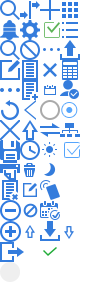
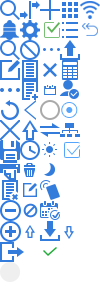
部门设定.html  home.html css img

Changed region(s): [[0.81, 0.0, 1.0, 0.12]]

diff --git a/部门设定.html b/部门设定.html
@@ -39,8 +39,9 @@
             <li><a href="#">首 页</a> &gt;</li>
             <li><span>部门设定</span></li>
         </ul>
-        <a href="#" class="floatright current"><i class="icon icon-set"></i></a>
-        <a href="#" class="floatright"><i class="icon icon-plus"></i></a>
+        <a href="#" class="iconBtn floatright current"><i class="icon icon-set"></i></a>
+        <a href="#" class="iconBtn floatright"><i class="icon icon-plus"></i></a>
+        <a href="#" class="iconBtn floatright"><i class="icon icon-update" title="同步"></i></a>
         <ul class="dropdown-menu width-110" style="display: none">
             <li><a href="#">部门设置</a></li>
             <li><a href="#">职位设置</a></li>
@@ -99,6 +100,25 @@
                 </li>
             </ul>
         </div>
+        <div class="container bg-white color-a mart10">
+            <div class="title alignright clearfix">
+                <span class="floatleft">以下部门不归我管</span>
+            </div>
+            <ul class="Department clearfix p-top10 p-bt20">
+                <li class="clearfix">
+                    <span class="txt_hidden">人力资源及社会保障局</span>
+                    <a href="#" class="iconBtn floatright" title="撤销"><i class="icon icon-revert"></i></a>
+                </li>
+                <li class="clearfix">
+                    <span class="txt_hidden">人力资源及社会保障局</span>
+                    <a href="#" class="iconBtn floatright" title="撤销"><i class="icon icon-revert"></i></a>
+                </li>
+                <li class="clearfix">
+                    <span class="txt_hidden">人力资源及社会保障局</span>
+                    <a href="#" class="iconBtn floatright" title="撤销"><i class="icon icon-revert"></i></a>
+                </li>
+            </ul>
+        </div>
     </div>
     <!--通知框begin-->
     <div class="container noticeBox bg-white" style="">
@@ -110,7 +130,32 @@
     </div>
     <!--通知框over-->
 </div>
-<!--<div class="mask" style="display:;"></div>-->
+<!--部门编辑弹出begin-->
+<div class="pop" style="display:block;height:200px;">
+    <div class="title alignright">
+        <span class="floatleft">部门编辑</span>
+        <a href="#" class="iconBtn marr10" title=""><i class="icon icon-off-mini"></i></a>
+    </div>
+    <div class="font14 popInner jscroll">
+        <table class="popMain mart10">
+            <tr>
+                <th>部门名称</th>
+                <td>
+                    <div class="has-general">
+                        <input type="text">
+                        <label class="control-label">请输入公式名称</label>
+                    </div>
+                </td>
+            </tr>
+        </table>
+        <p class="mart30 aligncenter">
+            <a href="#" class="btn btn-no marr20">取&nbsp;&nbsp;&nbsp;消</a>
+            <a href="#" class="btn btn-yes marl20">确&nbsp;&nbsp;&nbsp;定</a>
+        </p>
+    </div>
+</div>
+<!--部门编辑弹出over-->
+<div class="mask" style="display:;"></div>
 <script type="text/javascript" src="js/jquery.js"></script>
 <script type="text/javascript" src="js/jquery.jscrollpane.min.js"></script>
 <script type="text/javascript" src="js/jquery.mousewheel.js"></script>

diff --git a/home.html b/home.html
@@ -24,6 +24,7 @@
             <em>你好，习大大！</em>
         </span>
         <ul class="navItem floatright clearfix">
+            <li><a href="#"><i class="icon icon-net"></i></a></li>
             <li><a href="#"><i class="icon icon-search"></i></a></li>
             <li><a href="#"><i class="icon icon-team"></i></a></li>
             <li><a href="#" class="notice"><i class="icon icon-remind"></i><em class="prompt">5</em></a></li>
@@ -364,18 +365,44 @@
     </ul>
 </div>
 <!--通知框over-->
-<span class="loading aligncenter" style="display:;">
+<span class="loading aligncenter" style="display:none;">
     <img src="img/loading.gif"/><br>
     正在加载,请稍后再试...
 </span>
 <!--通知状态条begin-->
-<div class="message_box" style="display:;">
+<div class="message_box" style="display:none;">
     <div class="message aligncenter" style="display:;"><p class="font12 color-white ie-css3">通讯录刷新成功！</p></div><!--每次 fadeout 掉一个div-->
     <div class="message aligncenter message_waring" style="display:none;"><p class="font12 color-white ie-css3">请谨慎操作！</p></div><!--每次 fadeout 掉一个div-->
     <div class="message aligncenter message_error" style="display: none;"><p class="font12 color-white">操作失败！请您尝试重新操作！</p></div>
 </div>
 <!--通知状态条over-->
-<div class="mask" style="display:none;"></div>
+<!--选择分公司begin-->
+<div class="pop choose_net" style="display: block;">
+    <div class="title alignright">
+        <span class="floatleft">请选择分公司或地区</span>
+        <a href="#" class="iconBtn marr10" title=""><i class="icon icon-off-mini"></i></a>
+    </div>
+    <div class="jscroll mart10" style="height:80%;">
+        <ul>
+            <li><a href="">上海万企明道软件有限公司</a></li>
+            <li><a href="">mingdao plus</a></li>
+            <li><a href="">中共中央党校</a></li>
+            <li class="current" title="加current，分公司展开">
+                <a href="javascript:;">大连万科实业集团<em class="arrow"></em></a>
+                <dl style="display: ">
+                    <dd><a href="">北京分公司</a></dd>
+                    <dd><a href="">上海分公司</a></dd>
+                </dl>
+            </li>
+            <li><a href="">上海万企明道软件有限公司</a></li>
+            <li><a href="">北京联合通讯有限责任公司</a></li>
+            <li><a href="">北京联合通讯有限责任公司</a></li>
+            <li><a href="">北京联合通讯有限责33333任公司</a></li>
+        </ul>
+    </div>
+</div>
+<!--选择分公司over-->
+<div class="mask" style="display:block;"></div>
 <script type="text/javascript" src="js/jquery.js"></script>
 <script type="text/javascript" src="js/jquery.jscrollpane.min.js"></script>
 <script type="text/javascript" src="js/jquery.mousewheel.js"></script>

diff --git a/管理层设定-编辑.html b/管理层设定-编辑.html
@@ -166,25 +166,6 @@
                             <div class="treeMain marl40">
                                 <div class="userDiv">
                                     <em class="leftLine"></em>
-                                    <div class="title">
-                                        <div class="has-general intBox nomar">
-                                            <label class="control-label">请填写姓名</label>
-                                            <em class="arrow"></em>
-                                            <p class="marl5">按部门查找</p>
-                                            <div class="dropdown-menu jscroll" style="height:150px;">
-                                                <ul class="">
-                                                    <li><a href="#">按部门查找</a></li>
-                                                    <li><a href="#">按部门查找</a></li>
-                                                    <li><a href="#">按部门查找</a></li>
-                                                    <li><a href="#">按部门查找</a></li>
-                                                    <li><a href="#">按部门查找</a></li>
-                                                    <li><a href="#">按部门查找</a></li>
-                                                    <li><a href="#">按部门查找</a></li>
-                                                    <li><a href="#">按部门查找11</a></li>
-                                                </ul>
-                                            </div>
-                                        </div>
-                                    </div>
                                     <div class="clearfix">
                                         <span class="user mart5 marl10 floatleft clearfix">
                                             <img src="img/user1.png"/>

diff --git a/css/hrstyle.css b/css/hrstyle.css
@@ -63,6 +63,7 @@
 .arrow{display:inline-block;font-size:0;line-height:0;border-left:4px solid transparent;border-right:4px solid transparent;border-top:4px solid #aaa;position: absolute;top:50%;margin-top:-2px;right:10px;transition:0.2s;}
 .intBox .dropdown-menu{width:100%;right:-1px;top:30px;display:none;transition:0.3s;z-index:20;}
 .intBox.current .dropdown-menu{display: block;transition:0.3s;top:30px;}/*.intBox:hover .dropdown-menu,*/
+.treeMain .intBox.current .dropdown-menu{top:0;right:1px;}
 .current .arrow{transform: rotate(-180deg);transition:0.3s;}/*.intBox:hover .arrow,*/
 .search input{width:158px;height:28px;line-height: normal;border:0;float: left;outline: 0;text-indent:5px;color:#aaa;}
 .search a{width:38px;height:24px;margin-top:2px;border-left:1px solid #aaa;display: inline-block;}
@@ -274,6 +275,16 @@ ul.workArea li .intBox{background:none;border-color:#ccc;}
 .FormulaList li p{height:30px;line-height: 30px;position: relative;}
 .FormulaList li p .arrow{right:15px;}
 .FormulaList li .iconBtn{height:30px;margin-right:10px;}
+
+.choose_net{position: absolute;padding:5px 0;width:400px;height:300px;z-index:100;margin-top:-120px;background: #fff;border-radius:3px;}
+.choose_net p{border-bottom:1px solid #aaa;}
+.choose_net li{border-bottom: 1px solid #ccc;margin:0 20px 0 15px;}
+.choose_net li a{display:block;height:40px;line-height:40px;color:#333;font-size: 12px;position: relative;}
+.choose_net li a:hover{color:#0063bd;}
+.choose_net li dl{display: none;padding-bottom:10px;margin:0 10px;}
+.choose_net li.current dl{display: block;}
+.choose_net li dd{;}
+.choose_net li dd a{height:30px;line-height:30px;}
 
 
 .progress-radial {

diff --git a/管理层设定-查看.html b/管理层设定-查看.html
@@ -39,9 +39,9 @@
             <li><a href="#">首 页</a> &gt;</li>
             <li><span>管理层设定</span></li>
         </ul>
-        <a href="#" class="marr20"><i class="icon icon-update" title="同步"></i></a>
-        <a href="#" class="marr20"><i class="icon icon-edit" title="编辑"></i></a>
-        <a href="#" class="marr20"><i class="icon icon-set" title="设置"></i></a>
+        <a href="#" class="marr20 iconBtn"><i class="icon icon-update" title="同步"></i></a>
+        <a href="#" class="marr20 iconBtn"><i class="icon icon-edit" title="编辑"></i></a>
+        <a href="#" class="marr20 iconBtn"><i class="icon icon-set" title="设置"></i></a>
         <ul class="dropdown-menu width-110">
             <li><a href="#">部门设置</a></li>
             <li><a href="#">职位设置</a></li>
@@ -63,7 +63,7 @@
                             <span class="color-8">200</span>
                         </p>
                         <div class="clearfix">
-                            <span class="user mart5 marl10 marl15 floatleft clearfix">
+                            <span class="user mart5 marl10 floatleft clearfix">
                                 <img src="img/user1.png"/>
                             </span>
                             <p class="font14 p-top10">任向辉</p>

diff --git a/工资管理-列表视图.html b/工资管理-列表视图.html
@@ -62,7 +62,7 @@
                     <input type="text" placeholder="搜索员工姓名">
                     <a href="#" class="block floatleft relative"><i class="icon icon-search2"></i></a>
                 </div>
-                <div class="has-general floatright intBox nomar mart5 marr15 width-120">
+                <div class="has-general floatright intBox nomar mart5 marr15 width-120 current">
                     <label class="control-label">请选择部门</label>
                     <em class="arrow"></em>
                     <p class="marl5">全体部门</p>
@@ -443,7 +443,7 @@
 </div>
 <!--计算工资弹出over-->
 <!--提交审核begin-->
-<div class="pop" style="display:block ;">
+<div class="pop" style="display:none ;">
     <div class="title alignright">
         <span class="floatleft">提交审核</span>
         <a href="#" class="iconBtn marr10" title=""><i class="icon icon-off-mini"></i></a>
@@ -525,7 +525,7 @@
     </ul>
 </div>
 <!--通知框over-->
-<div class="mask" style="display:block;"></div>
+<div class="mask" style="display:none;"></div>
 <script type="text/javascript" src="js/jquery.js"></script>
 <script type="text/javascript" src="js/jquery.jscrollpane.min.js"></script>
 <script type="text/javascript" src="js/jquery.mousewheel.js"></script>

diff --git a/档案管理.html b/档案管理.html
@@ -186,7 +186,7 @@
     </div>
     <!--通知框over-->
     <!--姓名变更begin-->
-    <div class="pop" style="display: block;">
+    <div class="pop" style="display: none;">
         <div class="title alignright">
             <span class="floatleft">姓名变更确认</span>
             <a href="#" class="iconBtn marr10" title=""><i class="icon icon-off-mini"></i></a>
@@ -205,7 +205,7 @@
     </div>
     <!--姓名变更over-->
     <!--转正确认begin-->
-    <div class="pop">
+    <div class="pop" style="display: none">
         <div class="title alignright">
             <span class="floatleft">转正确认</span>
             <a href="#" class="iconBtn marr10" title=""><i class="icon icon-off-mini"></i></a>
@@ -243,7 +243,7 @@
     </div>
     <!--劳动合同续签over-->
     <!--确认begin-->
-    <div class="pop">
+    <div class="pop" style="display: block;">
         <div class="title alignright">
             <span class="floatleft">确认</span>
             <a href="#" class="iconBtn marr10" title=""><i class="icon icon-off-mini"></i></a>

diff --git a/css/global.css b/css/global.css
@@ -254,6 +254,7 @@ span.back{padding:0 20px;}
 a:hover .icon,a.current .icon,a.current:hover .icon-check,a.current .icon-set,.ico-calendar:hover,.has-general:hover .ico-calendar{background-image: url("../img/icon-2.png");}
 .iconBtn{display: inline-block;width:20px;height:20px;line-height:20px;position:relative;}
 .icon-search{background-position:0 0;}
+.icon-net{background-position:-80px 0;}
 .icon-team{background-position:-60px -120px;}
 .icon-remind{background-position:0 -20px;}
 .icon-search2{background-position:0 -40px;}
@@ -292,6 +293,7 @@ a:hover .icon,a.current .icon,a.current:hover .icon-check,a.current .icon-set,.i
 .icon-plus{background-position:-40px 0;}
 .icon-delete{background-position:-20px -160px;}
 .icon-off-mini{background-position:-40px -60px;}
+.icon-revert{background-position:-80px -20px;}
 .icon-circle{background-position:-40px -100px}
 .icon-close,.icon-open{width:21px;height:21px;background-position:0 -200px}
 .icon-open{background-position:0 -221px}

diff --git a/工资项编辑.html b/工资项编辑.html
@@ -125,7 +125,7 @@
     </div>
 </div>
 <!--新建工资项弹出begin-->
-<div class="pop" style="display:none;height:310px;">
+<div class="pop" style="display:block;height:310px;">
     <div class="title alignright">
         <span class="floatleft">新建工资项</span>
         <a href="#" class="iconBtn marr10" title=""><i class="icon icon-off-mini"></i></a>
